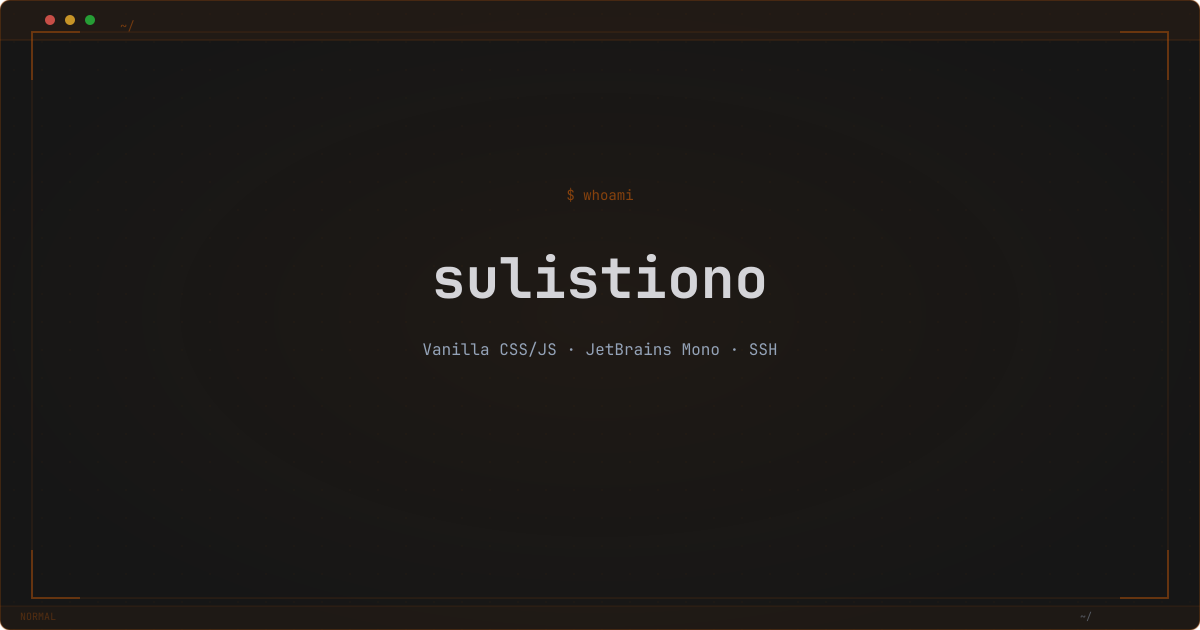
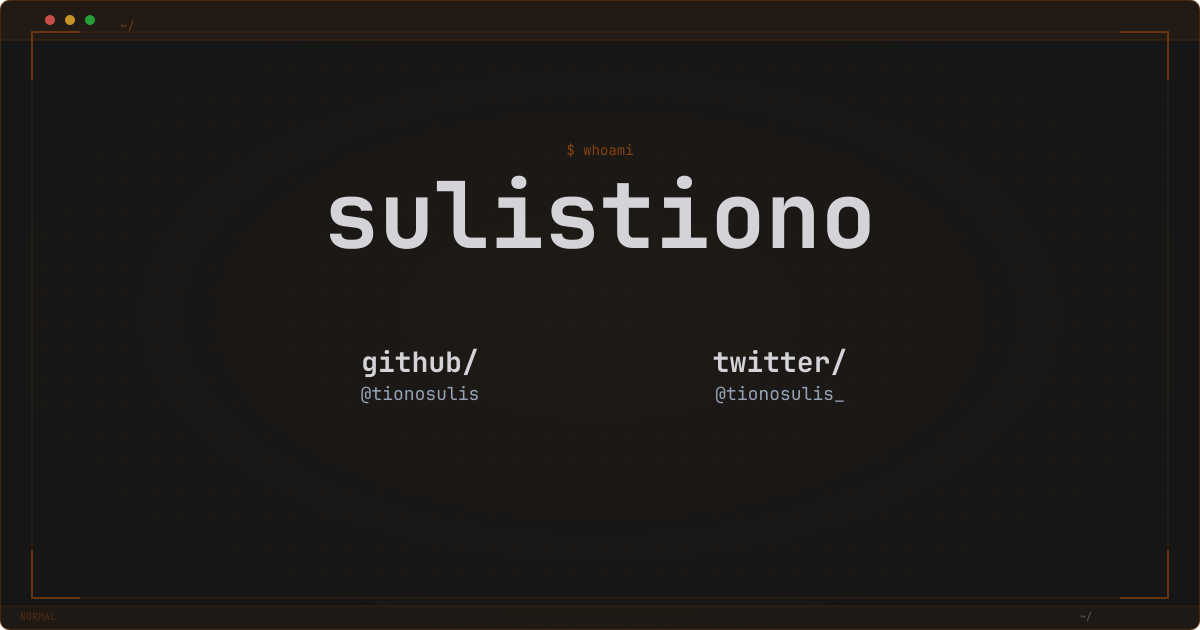
Redesain OG card: heading 56→92px, about SVG github+twitter supporting links, update image_alt

diff --git a/content/about/index.md b/content/about/index.md
@@ -5,7 +5,7 @@ description: >-
   Sulistiono — web developer and blogger. Vanilla CSS, static sites, writes about
   frontend. Ships mainly from a phone via SSH and sheer stubbornness.
 image: /assets/img/og/about.png
-image_alt: "Terminal OG card showing dollar sign commands: ls links/ listing posts directory, GitHub profile, and Twitter profile as navigation entries"
+image_alt: "Terminal OG card with amber accents, '$ whoami' prompt with bold 'sulistiono', and supporting github and Twitter links on dark dot-grid background"
 ---
 
 <div class="home-terminal">
